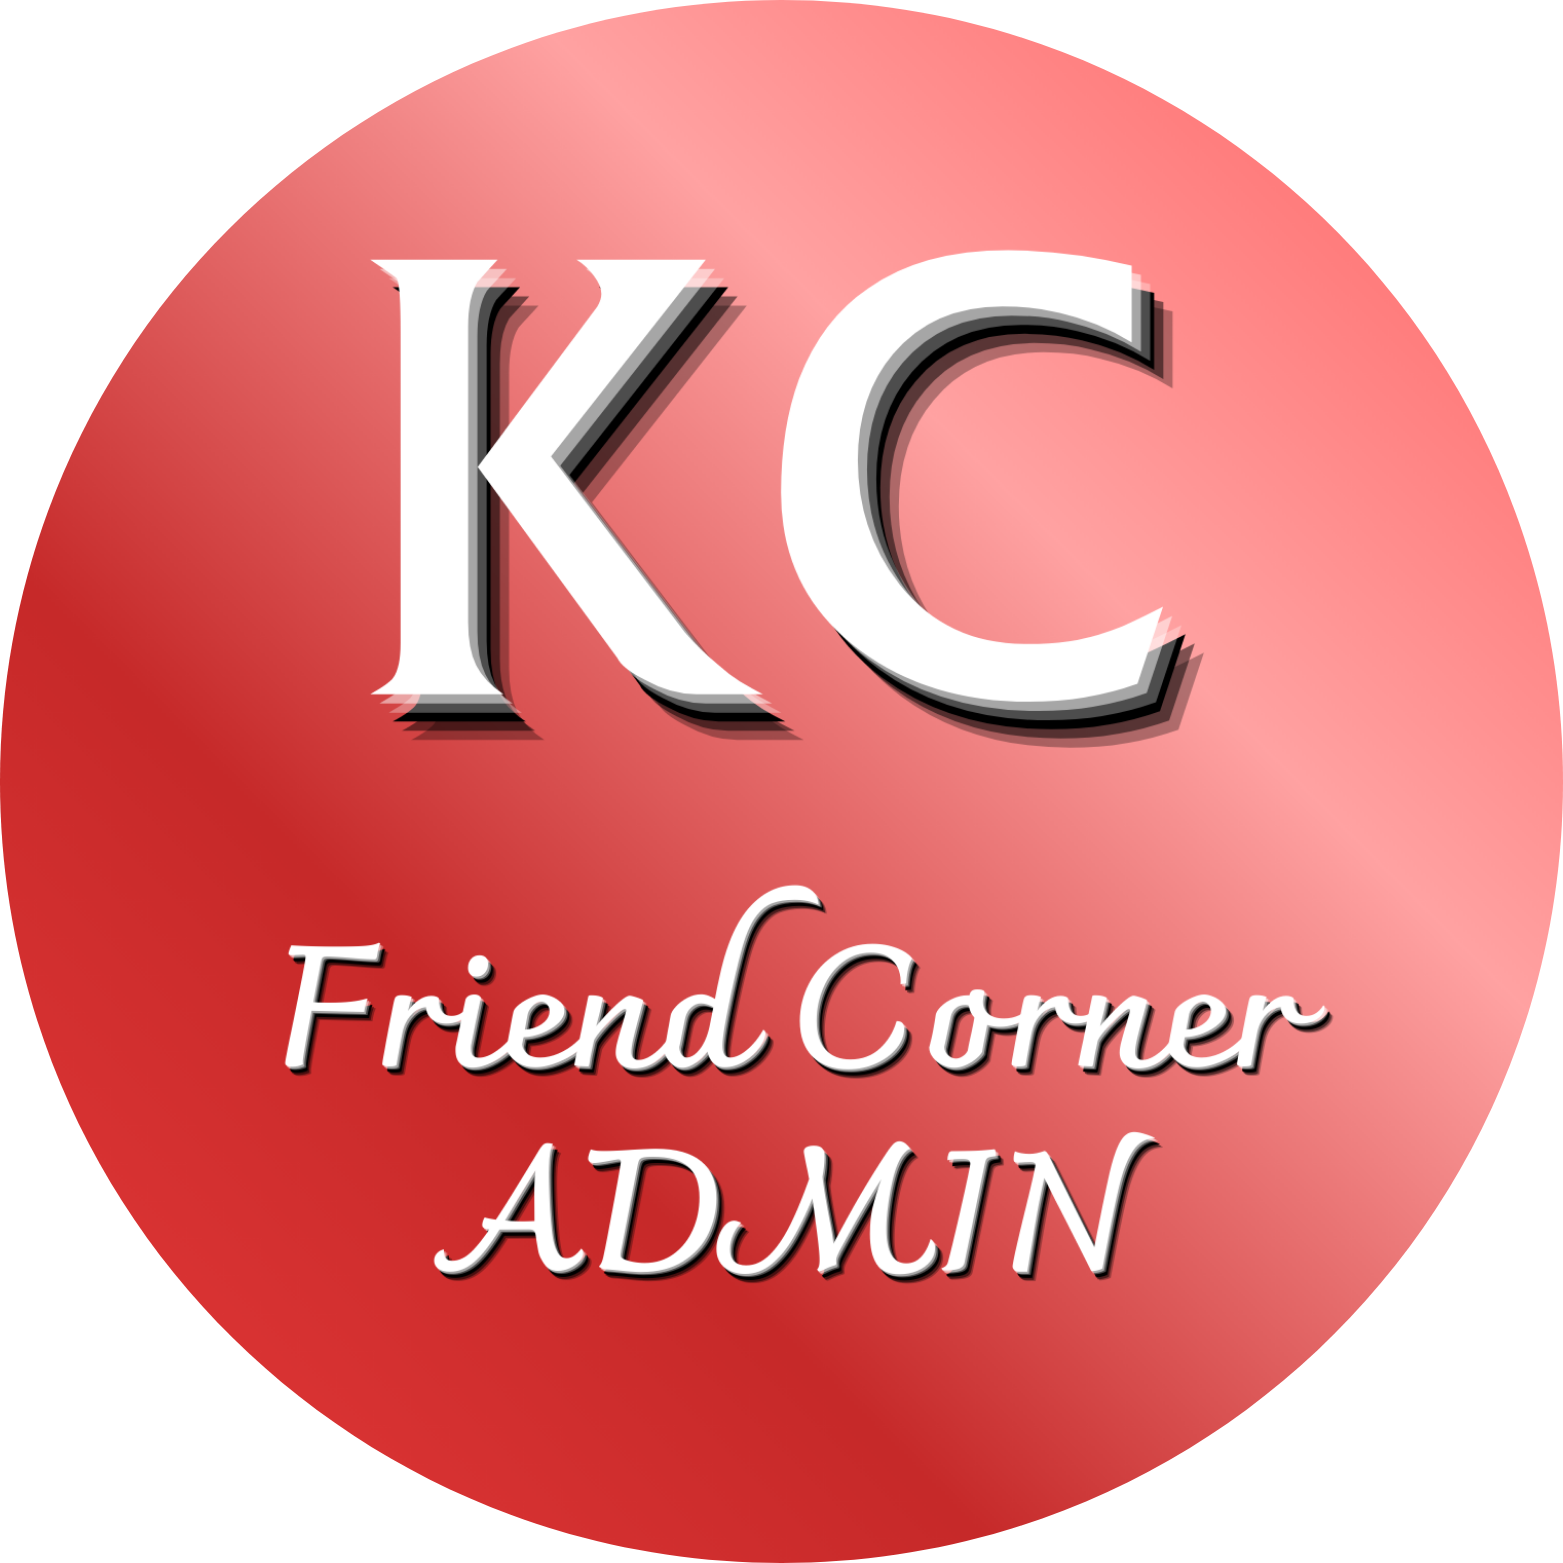
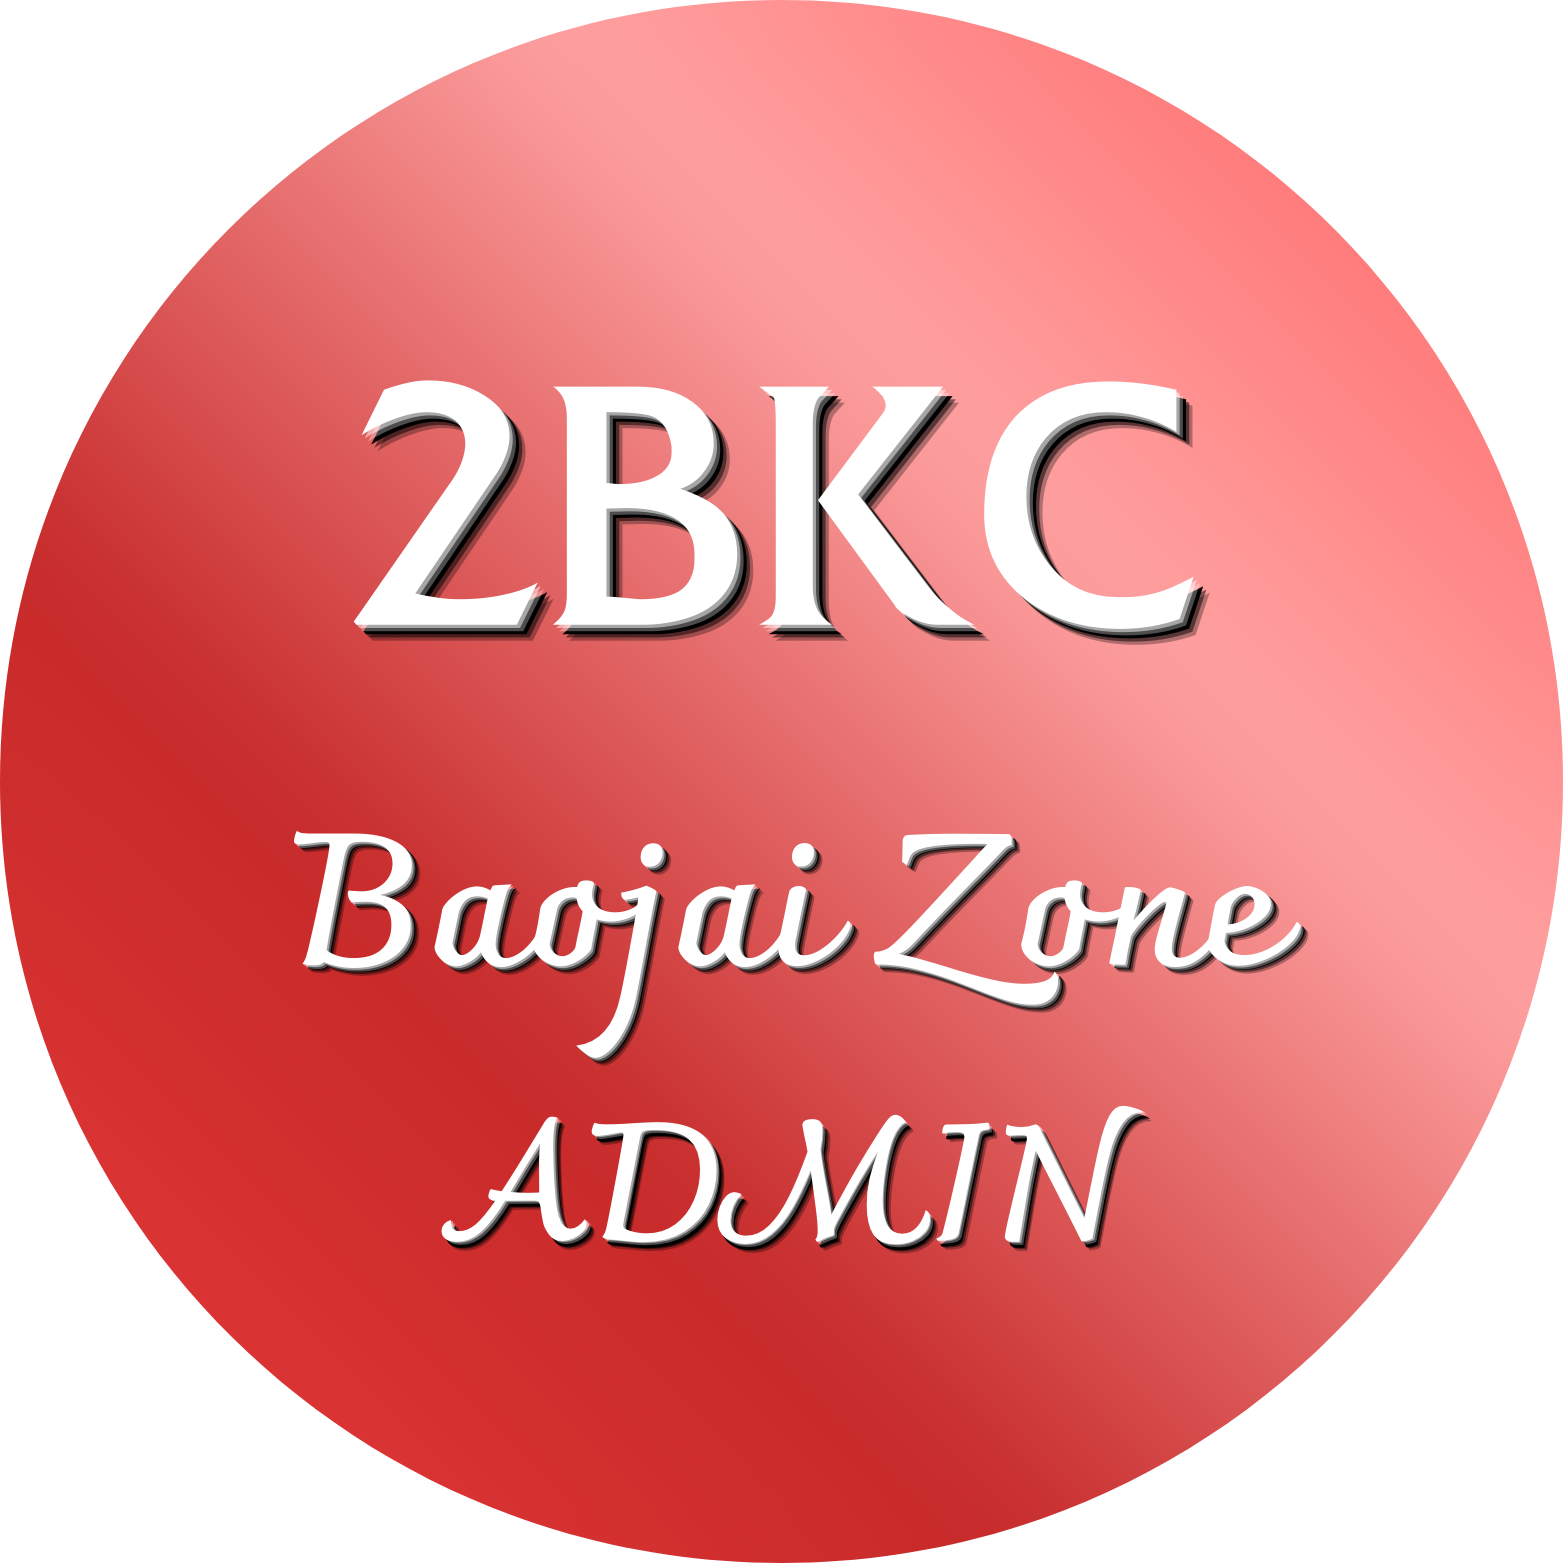
Add files via upload

Changed region(s): [[0.1843, 0.5221, 0.8599, 0.8292], [0.215, 0.1536, 0.7678, 0.4914]]

diff --git a/admin.html b/admin.html
@@ -4,7 +4,7 @@
     <head>
         <meta charset="UTF-8">
         <meta name="viewport" content="width=device-width, initial-scale=1.0">
-        <title>KC Friend Corner ADMIN</title>
+        <title>2BKC Baojai Zone Admin</title>
 
         <link rel="icon" type="image/png" href="adminปก.png">
         <link
@@ -55,7 +55,7 @@
                     <img class="welcome-logo-img circular"
                         src="FriendCorner.jpg.png" alt="Friend Corner Logo">
                 </div>
-                <br>
+                
                 <img id="appTitleImageAdmin" src="KCFCAM.png"
                     alt="KC Friend Corner ADMIN"> <p class="welcome-message"
                     id="welcomeMessage">

diff --git a/admin.css b/admin.css
@@ -672,7 +672,7 @@ body {
     flex-grow: 1;
     padding: 10px;
     border: 1px solid #ced4da;
-    border-radius: 8px;
+    border-radius: 20px;
     resize: none;
     min-height: 40px;
     box-shadow: 0 1px 3px rgba(0, 0, 0, 0.05);
@@ -689,7 +689,7 @@ body {
     flex-shrink: 0;
     background: var(--primary-color);
     width: 100px;
-    border-radius: 8px;
+    border-radius: 20px;
     transition: all var(--transition-time) ease-out;
     box-shadow: 0 3px 8px rgba(0, 0, 0, 0.15);
     border: none;
